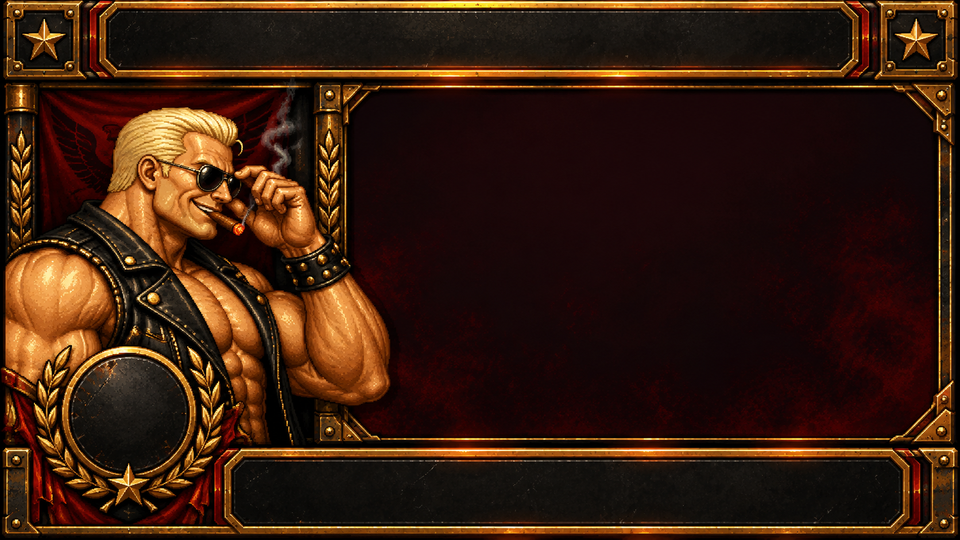
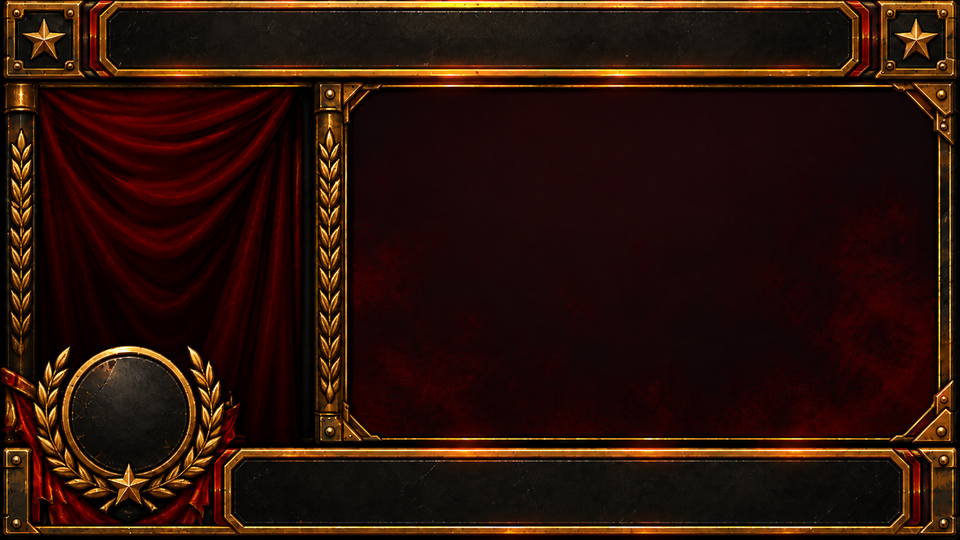
Rebuild results portrait animation and center victory lettering

diff --git a/js/results.js b/js/results.js
@@ -19,22 +19,35 @@ function resultText(ctx,text,x,y,{align='left',color='#e6cfab',size=8,numeric=fa
  ctx.save();ctx.font=`${size}px Impact, 'Arial Narrow', sans-serif`;ctx.textAlign=align;ctx.textBaseline='top';ctx.letterSpacing=numeric?'0.5px':'0.35px';
  ctx.fillStyle='#090606';ctx.fillText(text,x,y+1);ctx.fillStyle=color;ctx.fillText(text,x,y);ctx.restore();
 }
-function portraitLife(ctx,t,exhaling){
- const tip=exhaling?{x:111,y:161}:{x:127,y:117};
- ctx.save();ctx.translate(tip.x-127,tip.y-117);
- const cycle=t%240,puff=Math.max(0,Math.sin(Math.PI*cycle/240));
- ctx.save();
- // The authored cigar tip is fixed at (127,117); emissions begin there.
+// Bounds measured from the blank card at 960x540, then mapped to game pixels.
+export const RESULTS_LAYOUT=Object.freeze({title:{x:64,y:15,w:352,h:22},rank:{x:60,y:189,w:32,h:32}});
+export function resultPortraitFrame(t){
+ const phase=Math.max(0,t-45)%360;
+ const beats=[[108,0],[132,1],[144,2],[156,3],[168,4],[264,5],[276,4],[288,3],[300,6],[312,7],[360,0]];
+ return beats.find(([end])=>phase<end)[1];
+}
+function portraitLife(ctx,t){
+ const im=ASSETS.results_portrait;if(!im)return;
+ const frame=resultPortraitFrame(t),phase=Math.max(0,t-45)%360;
+ ctx.save();ctx.beginPath();ctx.rect(17,48,177,174);ctx.clip();
+ // Fixed head/torso registration and one scale for all eight generated poses.
+ ctx.drawImage(im,frame%4*384,Math.floor(frame/4)*512,384,512,22,20,161.28,215.04);
+ const tips=[[270,205],[270,205],[279,193],[300,234],[250,300],[250,300],[279,193],[270,205]],tip=tips[frame];
+ const tx=22+tip[0]*.42,ty=20+tip[1]*.42;
  ctx.globalCompositeOperation='screen';
- const glow=ctx.createRadialGradient(127,117,0,127,117,5);
- glow.addColorStop(0,`rgba(255,111,27,${.2+puff*.28})`);glow.addColorStop(1,'rgba(255,91,15,0)');ctx.fillStyle=glow;ctx.fillRect(122,112,10,10);
+ const glow=ctx.createRadialGradient(tx,ty,0,tx,ty,3);
+ glow.addColorStop(0,`rgba(255,116,29,${frame===1?.75:.25})`);glow.addColorStop(1,'rgba(255,91,15,0)');ctx.fillStyle=glow;ctx.fillRect(tx-3,ty-3,6,6);
  ctx.globalCompositeOperation='source-over';
- for(let i=0;i<7;i++){const age=(t*.35+i*9)%66;ctx.globalAlpha=.1*(1-age/66);ctx.strokeStyle='#e7cfac';ctx.lineWidth=.65+age/90;ctx.beginPath();
- const x=127+Math.sin(age*.085+i*.7)*(2+age*.06),y=115-age*.65;
- ctx.moveTo(x,y);ctx.quadraticCurveTo(x+4,y-3,x+1,y-7);ctx.stroke();}
+ // Smoke starts at the registered mouth during the exhale hold.
+ if(phase>=166&&phase<264)for(let i=0;i<9;i++){
+  const age=phase-166-i*7;if(age<0||age>48)continue;
+  const sx=126+age*.44,sy=101-age*.30+Math.sin(age*.16+i)*1.5,r=1.4+age*.065;
+  ctx.globalAlpha=.22*(1-age/48);ctx.fillStyle='#dbd0bc';ctx.beginPath();ctx.ellipse(sx,sy,r*1.6,r,0,0,Math.PI*2);ctx.fill();
+ }
  ctx.restore();
- const glint=t%420;if(glint<24){ctx.globalAlpha=Math.sin(glint/24*Math.PI)*.6;ctx.strokeStyle='#fff1c4';ctx.lineWidth=.7;ctx.beginPath();ctx.moveTo(105,96);ctx.lineTo(110,92);ctx.stroke();}
- ctx.restore();
+}
+function centeredArtwork(ctx,text,box,height,maxWidth){
+ drawDisplayTitle(ctx,text,box.x+box.w/2,box.y+box.h/2,{height,maxWidth,anchor:[.5,.5]});
 }
 export function drawResults(ctx,t){
  if(t<45)return;
@@ -43,10 +56,9 @@ export function drawResults(ctx,t){
  const x=14,y=8,w=452,h=254;
  if(ASSETS.results_card)ctx.drawImage(ASSETS.results_card,x,y,w,h);
  else{ctx.fillStyle='#160f14';ctx.fillRect(x,y,w,h);ctx.strokeStyle='#b88c45';ctx.strokeRect(x+.5,y+.5,w-1,h-1);}
- const exhaling=(t-45)%420>=210;
- if(exhaling&&ASSETS.results_exhale){ctx.save();ctx.beginPath();ctx.rect(14,49,186,127);ctx.rect(116,175,84,46);ctx.clip();ctx.drawImage(ASSETS.results_exhale,x,y,w,h);ctx.restore();}
- portraitLife(ctx,t,exhaling);
- drawDisplayTitle(ctx,'CHAD WINS',240,29,{height:30,maxWidth:340,anchor:[.508,.415]});
+ portraitLife(ctx,t);
+ if(ASSETS.results_badge)ctx.drawImage(ASSETS.results_badge,x,y,w,h);
+ centeredArtwork(ctx,'CHAD WINS',RESULTS_LAYOUT.title,22,330);
  const title=G.stage?.name||'STAGE CLEAR';resultText(ctx,title,312,63,{align:'center',size:10,color:'#dcc597'});
  const rows=[['HITS LANDED',st.hits],['KNOCKOUTS',st.kos],['BEST COMBO',st.combo],['CLEAR BONUS',st.bonus+st.combo*25],['TOTAL SCORE',G.score]];
  rows.forEach(([label,value],i)=>{
@@ -58,9 +70,9 @@ export function drawResults(ctx,t){
   resultText(ctx,shown,432,yy-2,{align:'right',numeric:true,size:10,color:'#fff0c8'});
  });
  if(t>=165){const rank=G.results?.rank||resultRank(st,G.player.hp);
-  resultText(ctx,'RANK',76,179,{align:'center',size:7,color:'#e6c285'});
   const stamp=1+Math.max(0,1-(t-165)/12)*.3;
-  ctx.save();ctx.translate(76,203);ctx.scale(stamp,stamp);drawDisplayTitle(ctx,'RANK '+rank,0,0,{height:28,maxWidth:30,anchor:({S:[.487,.431],A:[.496,.49],B:[.496,.426],C:[.443,.401]})[rank]});ctx.restore();
+  const box=RESULTS_LAYOUT.rank;
+  ctx.save();ctx.translate(box.x+box.w/2,box.y+box.h/2);ctx.scale(stamp,stamp);centeredArtwork(ctx,'RANK '+rank,{x:-box.w/2,y:-box.h/2,w:box.w,h:box.h},30,box.w);ctx.restore();
   const labels={S:'ABSOLUTE MENACE',A:'FIRST CLASS BEATDOWN',B:'JOB DONE',C:'STILL STANDING'};
   resultText(ctx,labels[rank],194,203,{size:8,color:'#eac17c'});
  }

diff --git a/js/display_type.js b/js/display_type.js
@@ -37,6 +37,6 @@ export function drawDisplayTitle(ctx,text,cx,y,{height=26,maxWidth=400,art=artwo
   return {width:w,height:h};
  }
  const scale=Math.max(1,Math.min(Math.floor(height/7),Math.floor(maxWidth/textWidth(key,1)))),w=textWidth(key,scale);
- drawTextShadow(ctx,key,Math.round(cx-w/2),Math.round(y),'#ffda86',scale,'#592719');
+ drawTextShadow(ctx,key,Math.round(cx-w*(anchor?.[0]??.5)),Math.round(y-scale*6*(anchor?.[1]??0)),'#ffda86',scale,'#592719');
  return {width:w,height:scale*6};
 }

diff --git a/js/assets.js b/js/assets.js
@@ -101,7 +101,8 @@ export const FILES = {
   logo: 'assets/ui/logo.png',
   go_sign: 'assets/ui/go_sign.png',
   portrait_chad: 'assets/ui/portrait_chad.png',
-  results_exhale: 'assets/ui/results_exhale.png',
+  results_portrait: 'assets/ui/results_portrait.png',
+  results_badge: 'assets/ui/results_badge.png',
   results_card: 'assets/ui/results_card.png',
   portrait_chad_48: 'assets/ui/portrait_chad_48.png',
   portrait_raja: 'assets/ui/portrait_raja.png',

diff --git a/tools/production/build_results_portrait.py b/tools/production/build_results_portrait.py
@@ -1,0 +1,53 @@
+"""Separate results frame, foreground badge and registered cigar performance."""
+from pathlib import Path
+import json
+import numpy as np
+from PIL import Image,ImageDraw
+ROOT=Path(__file__).resolve().parents[2]
+SRC=ROOT/'assets/sources/production/ui';OUT=ROOT/'assets/ui'
+def main():
+ bg=Image.open(SRC/'results_empty.png').convert('RGBA').resize((960,540),Image.Resampling.LANCZOS)
+ bg.save(OUT/'results_card.png')
+ foreground=Image.new('L',bg.size)
+ d=ImageDraw.Draw(foreground)
+ d.polygon([(0,371),(18,379),(28,368),(45,359),(54,348),(88,351),(98,346),(123,341),(147,343),(176,352),(188,348),(199,365),(211,375),(235,392),(229,437),(207,477),(215,508),(225,540),(0,540)],fill=255)
+ rgb=np.array(bg)[:,:,:3].astype(float);r,g,b=rgb.transpose(2,0,1)
+ colors=((r>80)&(r>g*1.1)&(g>b*1.4))|((r>50)&(r>g*1.8)&(r>b*1.8))
+ mask=np.array(foreground)>0
+ yy,xx=np.indices(mask.shape);face=((xx-132)/81)**2+((yy-421)/84)**2<=1
+ foreground=Image.fromarray(((mask&colors)|face).astype('uint8')*255)
+ fg=bg.copy();fg.putalpha(foreground);fg.save(OUT/'results_badge.png')
+ im=Image.open(SRC/'results_portrait.png').convert('RGBA');cells=[]
+ for i in range(8):
+  c=im.crop((i%4*384,i//4*512,i%4*384+384,i//4*512+512));a=np.array(c);rgb=a[:,:,:3].astype(int)
+  mask=(rgb.min(2)>140)&(rgb.max(2)-rgb.min(2)<22)
+  flood=Image.fromarray(mask.astype('uint8')*255).copy()
+  for point in [(x,0) for x in range(384)]+[(x,511) for x in range(384)]+[(0,y) for y in range(512)]+[(383,y) for y in range(512)]:
+   if flood.getpixel(point)==255:ImageDraw.floodfill(flood,point,128)
+  # Raised forearms enclose the checker matte. Remove those large islands,
+  # while retaining the small neutral highlights inside the hair and glasses.
+  for yy,xx in zip(*np.where(np.array(flood)==255)):
+   if flood.getpixel((int(xx),int(yy)))!=255:continue
+   ImageDraw.floodfill(flood,(int(xx),int(yy)),64)
+   component=np.array(flood)==64
+   if component.sum()>=512:a[component]=0
+   stamped=np.array(flood);stamped[component]=32;flood=Image.fromarray(stamped).copy()
+  a[np.array(flood)==128]=0;cells.append(Image.fromarray(a))
+ # Register all heads to pose 0 using the shared hair shape, never normalize bodies.
+ ref=np.array(cells[0])
+ template=ref[75:125:2,140:260:2,:3].astype(float);valid=ref[75:125:2,140:260:2,3]>128
+ shifts=[];out=Image.new('RGBA',(384*4,512*2))
+ for i,c in enumerate(cells):
+  a=np.array(c);best=(float('inf'),0,0)
+  for dy in range(-44,13):
+   for dx in range(-20,21):
+    region=a[75+dy:125+dy:2,140+dx:260+dx:2,:3].astype(float)
+    score=np.abs(region-template)[valid].mean()
+    if score<best[0]:best=(score,dx,dy)
+  _,dx,dy=best;shifts.append([dx,dy])
+  f=Image.new('RGBA',(384,512));f.alpha_composite(c,(-dx,-dy));out.alpha_composite(f,(i%4*384,i//4*512))
+ out.save(OUT/'results_portrait.png')
+ (ROOT/'tmp/review').mkdir(exist_ok=True)
+ (ROOT/'tmp/review/results-registration.json').write_text(json.dumps(shifts))
+ print('Head registration:',shifts)
+if __name__=='__main__':main()

diff --git a/tools/production/build_results_card.py b/tools/production/build_results_card.py
@@ -1,9 +1,4 @@
-"""Prepare the selected illustrated results card; lettering remains live UI."""
-from pathlib import Path
-from PIL import Image
-ROOT=Path(__file__).resolve().parents[2]
-im=Image.open(ROOT/'assets/sources/production/ui/results_card.png').convert('RGB')
-im.resize((960,540),Image.Resampling.LANCZOS).save(ROOT/'assets/ui/results_card.png')
-
-im=Image.open(ROOT/"assets/sources/production/ui/results_exhale.png").convert("RGB")
-im.resize((960,540),Image.Resampling.LANCZOS).save(ROOT/"assets/ui/results_exhale.png")
+"""Build the layered results card and its registered portrait performance."""
+from build_results_portrait import main
+if __name__ == '__main__':
+    main()

diff --git a/docs/night-train.md b/docs/night-train.md
@@ -63,4 +63,4 @@ Seth’s interior defeat leads into an 11-second roof escape: visible finishing 
 
 Chapter results share an illustrated black-and-gold CHAD card with animated counting, quiet tally ticks and a rank reaction. Rank: S at 80+ remaining health and 12+ best combo; A at 60+ health and 8+ combo; B at 35+ health; otherwise C. Rank is presentation only and never changes score or unlocks. The existing 45-tick victory hold and fresh F/LB continuation remain.
 
-The shared results renderer now serves every stage. Its portrait alternates between shades-adjustment and cigar-exhale artwork; gold titles and rank faces use optical anchors, with condensed score typography. Explorer links may use `play=1` for live results playback.
+The shared results renderer now serves every stage. Its portrait uses eight registered cigar poses over a separate curtain plate and foreground badge. The title is fitted inside the measured header inset; the single rank letter is centered in the circular badge. Condensed score typography remains fixed during the performance. Explorer links may use `play=1` for live results playback.
